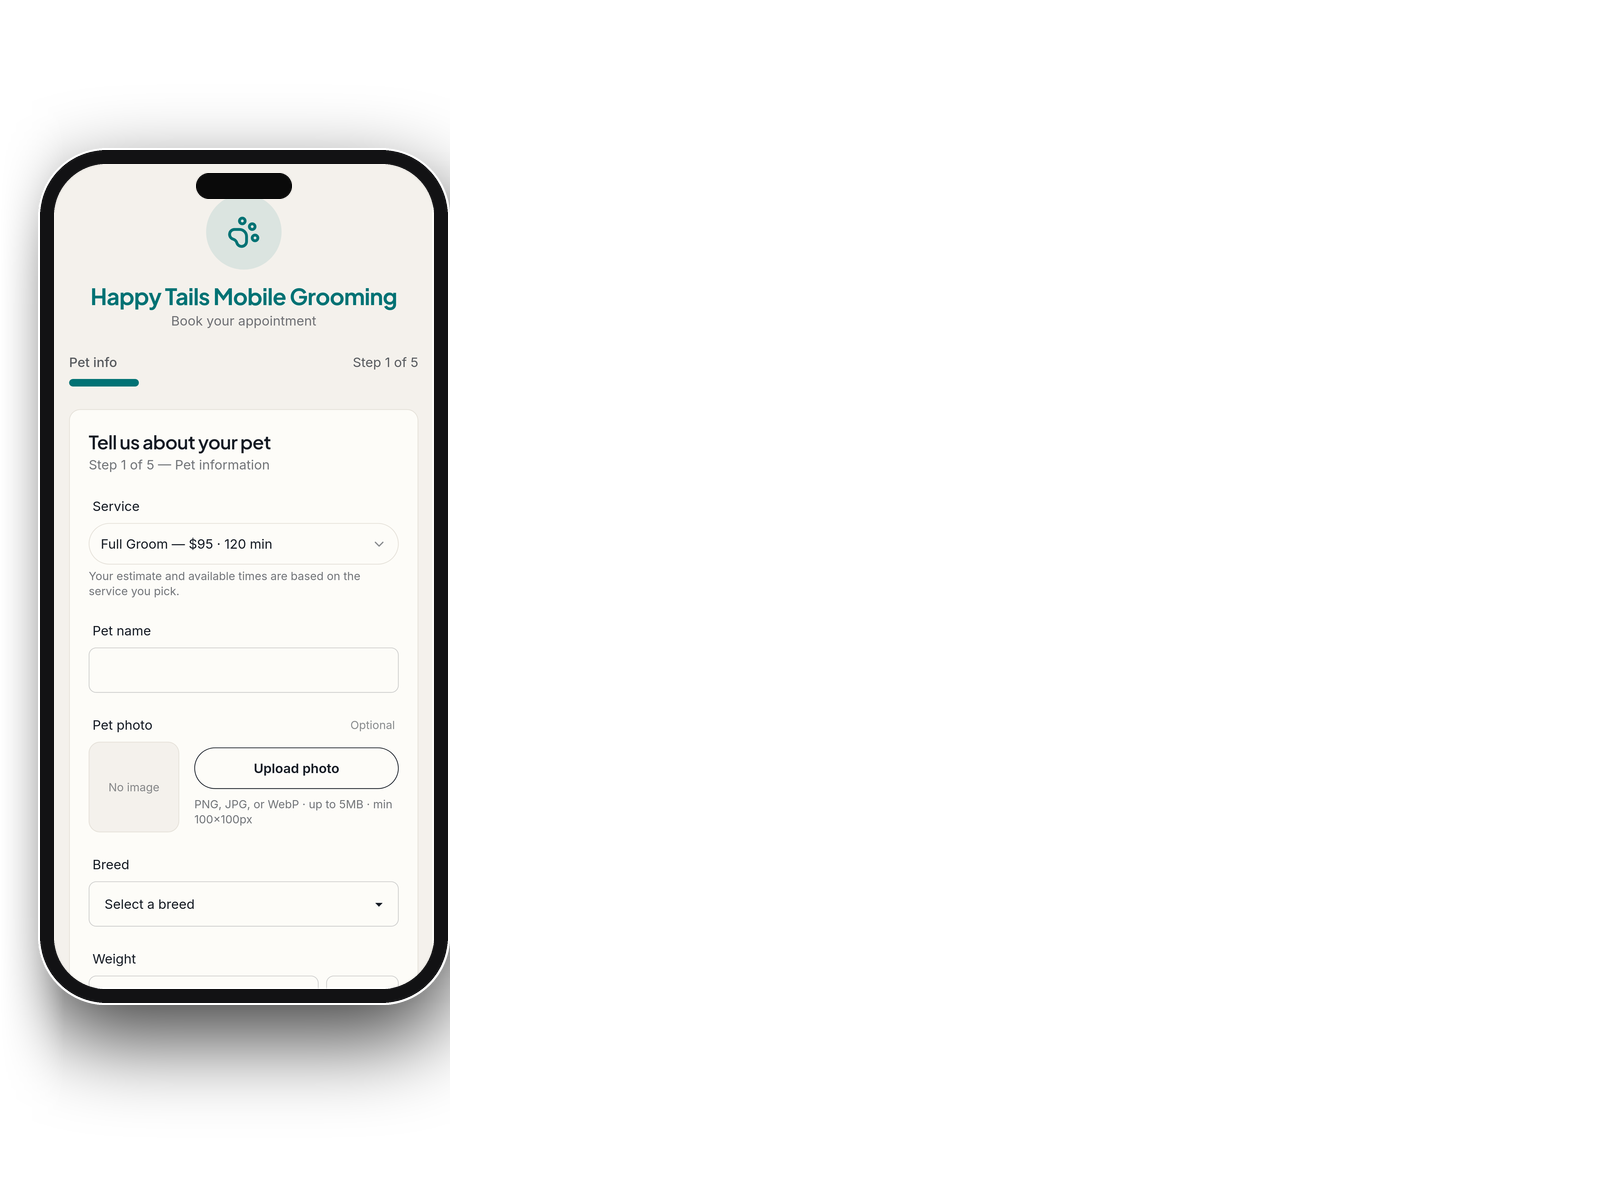
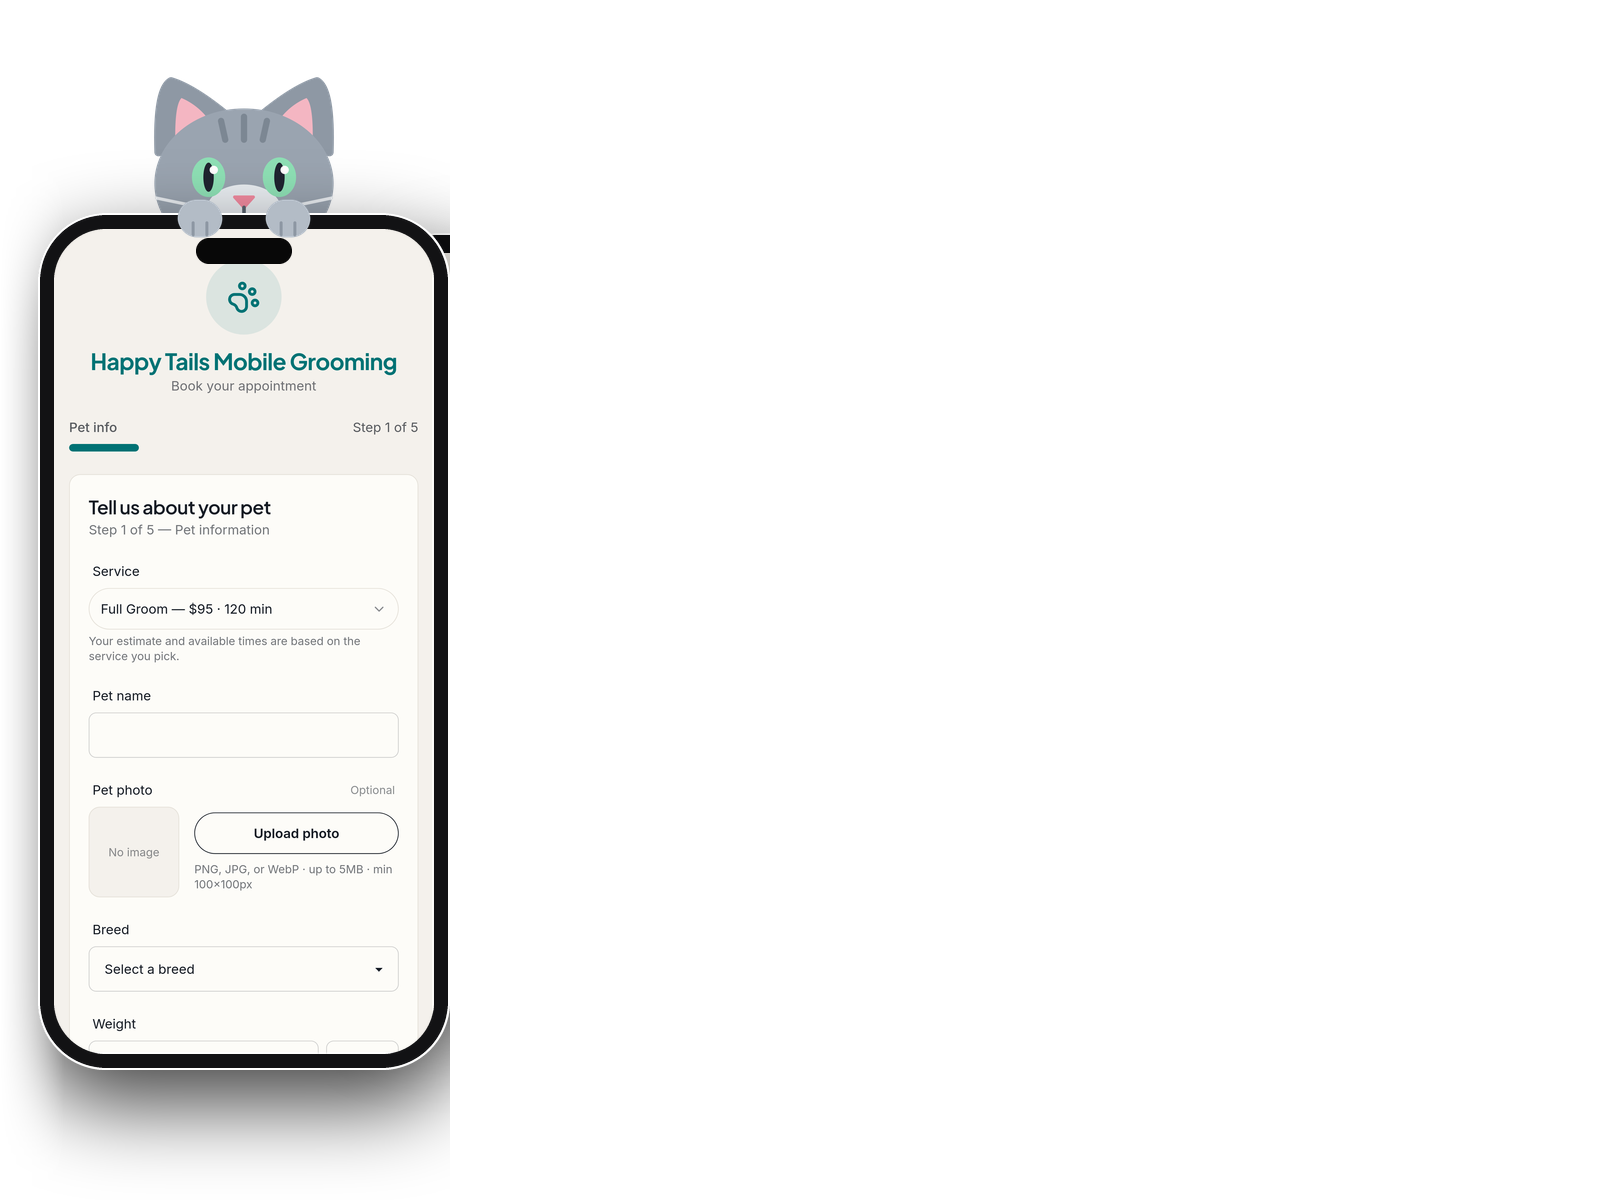
feat(landing): hero uses the pets artwork (laptop + phone), wider image column

diff --git a/src/components/marketing/HeroVisual.tsx b/src/components/marketing/HeroVisual.tsx
@@ -5,11 +5,12 @@ import { motion, type Variants } from 'framer-motion';
 import { reducedVariants, useReducedMotion } from '@/lib/animation';
 
 /**
- * HeroVisual: the product composition on the right of the hero (dashboard
- * window + booking page on a phone).
+ * HeroVisual: the product composition on the right of the hero (the dashboard
+ * on a laptop with a dog peeking over it, and the booking page on a phone with
+ * a cat on top).
  *
- * The artwork ships as two transparent layers cut from `pawxis-hero.png` at the
- * phone's right edge. Stacked, they reproduce the original image exactly; split,
+ * The artwork ships as two transparent layers cut from `pawxis-hero-pets.png`
+ * at the phone's right edge (scripts/split-hero.py rebuilds them). Stacked, they reproduce the original image exactly; split,
  * the phone can enter ~150ms after the window.
  *
  * Each layer is a <picture>: WebP for browsers that support it, PNG fallback.
@@ -70,7 +71,7 @@ export function HeroVisual() {
       <Layer
         name="window"
         priority
-        alt="Pawxis dashboard showing today's route and Order Radar, next to the client booking page on a phone"
+        alt="The Pawxis dashboard with today's route and Order Radar on a laptop, with a dog peeking over the top, next to the client booking page on a phone with a cat on top"
         variants={reduced ? reducedVariants : layer(0)}
       />
       {/* Same artwork, described by the layer above. */}

diff --git a/src/components/marketing/Hero.tsx b/src/components/marketing/Hero.tsx
@@ -21,8 +21,8 @@ export function Hero() {
   return (
     <section id="hero" className="border-b border-base-300 bg-base-100 pb-14 pt-28 md:pb-20 md:pt-36">
       <div className="mx-auto max-w-7xl px-6 md:px-8">
-        <div className="grid grid-cols-1 items-center gap-12 lg:grid-cols-12 lg:gap-16">
-          <div className="lg:col-span-6">
+        <div className="grid grid-cols-1 items-center gap-12 lg:grid-cols-12 lg:gap-10 xl:gap-16">
+          <div className="lg:col-span-5">
             {/* Same eyebrow style as every other section heading. */}
             <p className="mb-5 text-sm font-semibold uppercase tracking-[0.3em] text-accent">{eyebrow}</p>
 
@@ -56,7 +56,7 @@ export function Hero() {
             <p className="mt-6 text-sm text-base-content/60">{trust}</p>
           </div>
 
-          <div className="lg:col-span-6">
+          <div className="lg:col-span-7">
             <HeroVisual />
           </div>
         </div>

diff --git a/scripts/split-hero.py b/scripts/split-hero.py
@@ -3,7 +3,7 @@ split-hero.py - builds the landing-page hero layers from the master artwork.
 
     python3 scripts/split-hero.py
 
-Input:  public/images/marketing/pawxis-hero.png  (lossless master, 1600x1200, transparent)
+Input:  public/images/marketing/pawxis-hero-pets.png  (lossless master, 1600x1200, transparent)
 Output: public/images/marketing/pawxis-hero-{window,phone}.{webp,png}
 
 Two steps:
@@ -20,7 +20,7 @@ from pathlib import Path
 from PIL import Image
 
 DIR = Path(__file__).resolve().parent.parent / 'public' / 'images' / 'marketing'
-SRC = DIR / 'pawxis-hero.png'
+SRC = DIR / 'pawxis-hero-pets.png'
 SPLIT_X = 450   # first column of the window; the phone (bezel + highlight) ends at 449
 FEATHER = 64    # px over which the clipped shadow fades out at each side
 
